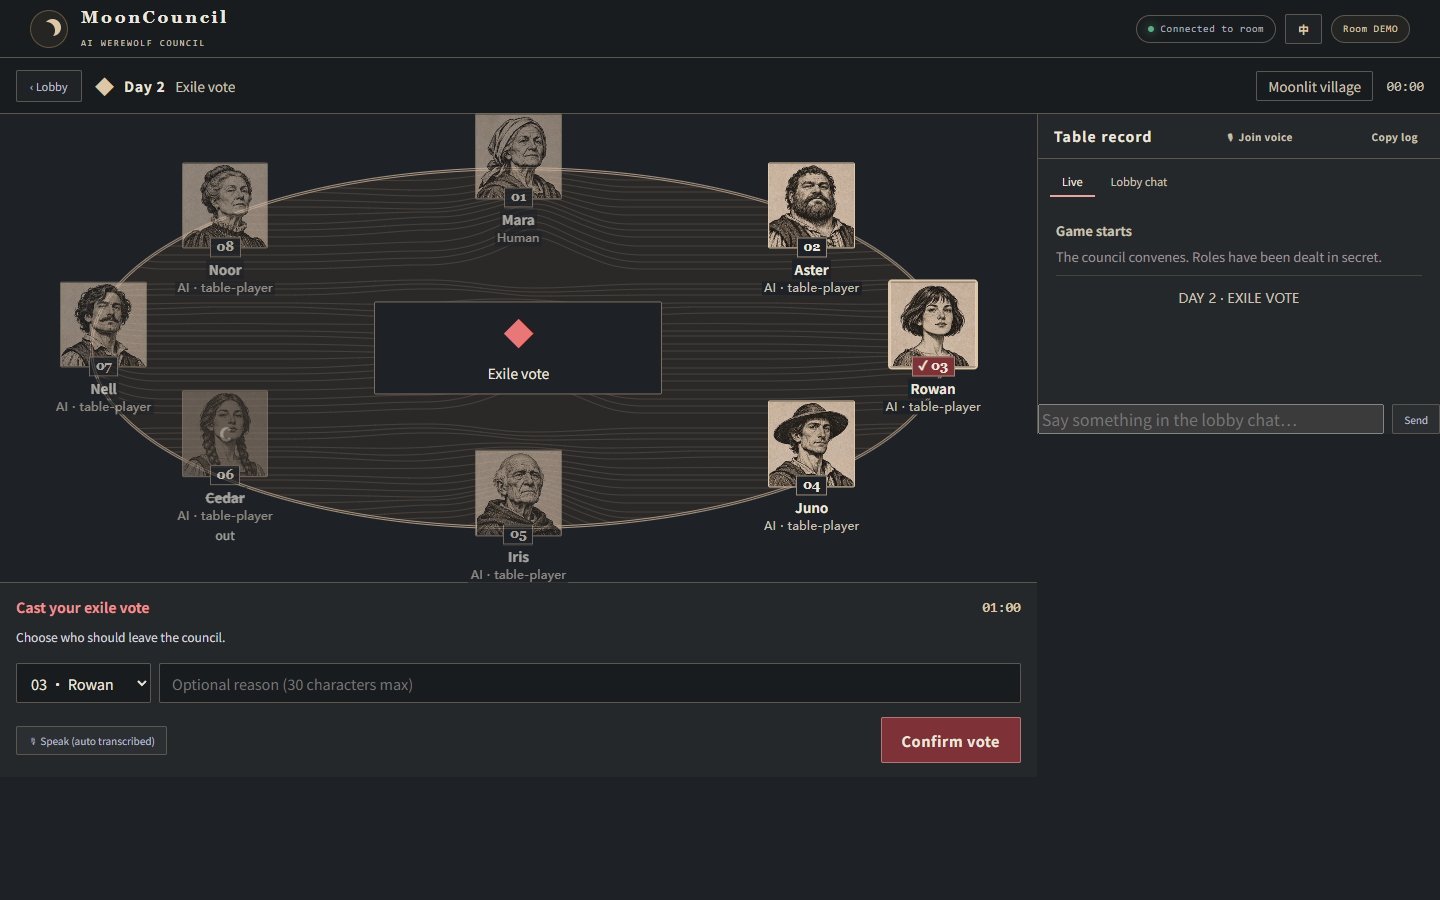
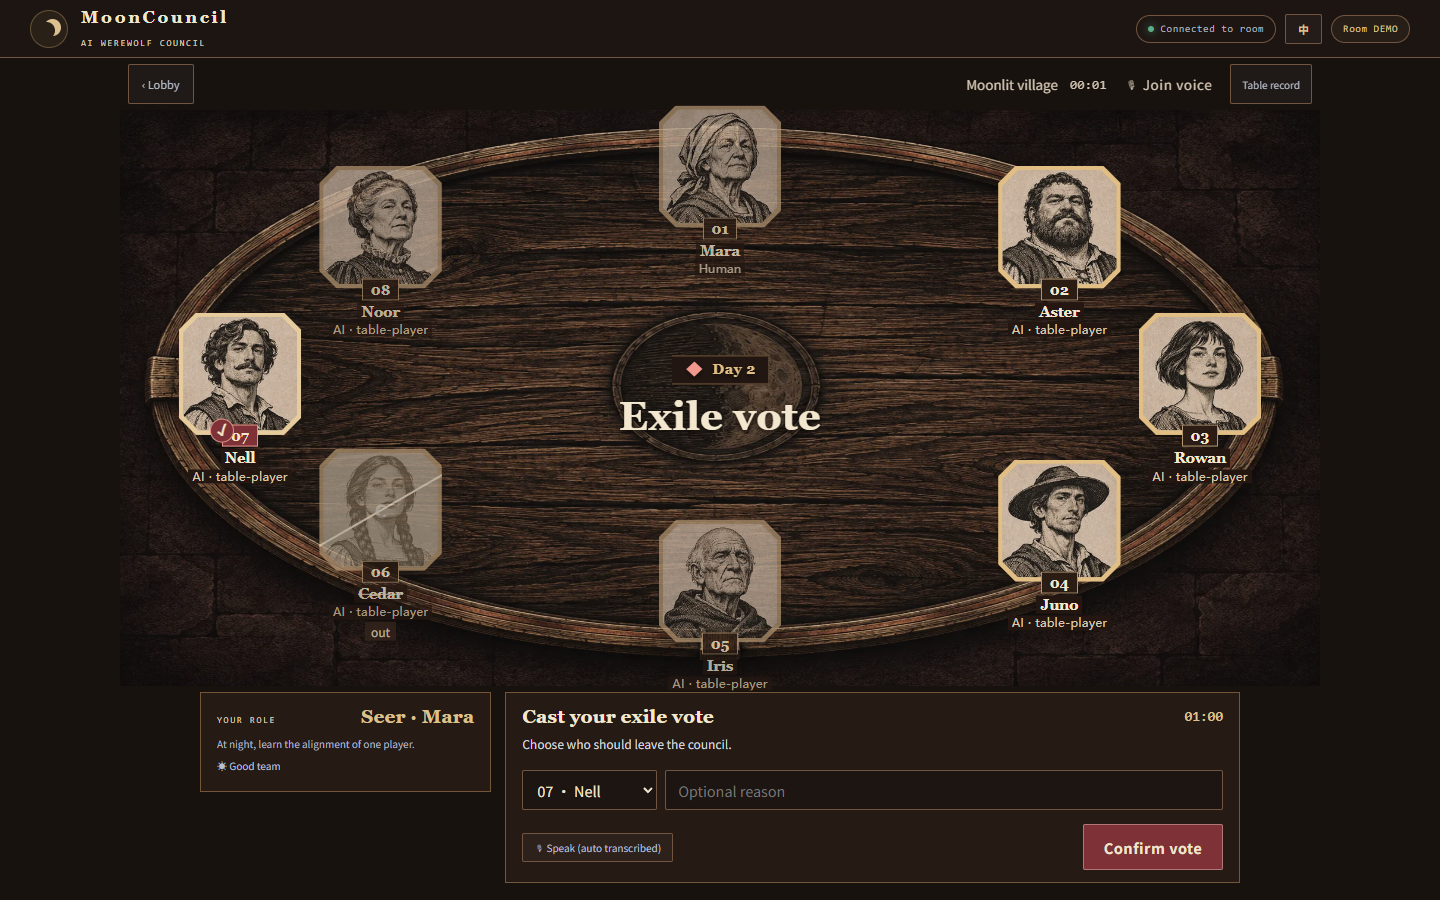
Refresh the MoonCouncil table preview (#8)

diff --git a/README.md b/README.md
@@ -17,8 +17,9 @@ frontier model with its own personality.
 
 ![MoonCouncil's woodcut roundtable during an exile vote](./assets/roundtable.png)
 
-*A local playtest with fictional players. The table shows seat numbers, who is out
-and the selected vote target. On a phone the seats rearrange into a grid.*
+*A local playtest with fictional players. The round and speaker are shown on the
+table itself. A wax seal marks the selected vote, and a struck portrait marks an
+eliminated player. The record opens when needed, and seats rearrange on phones.*
 
 ---
 
